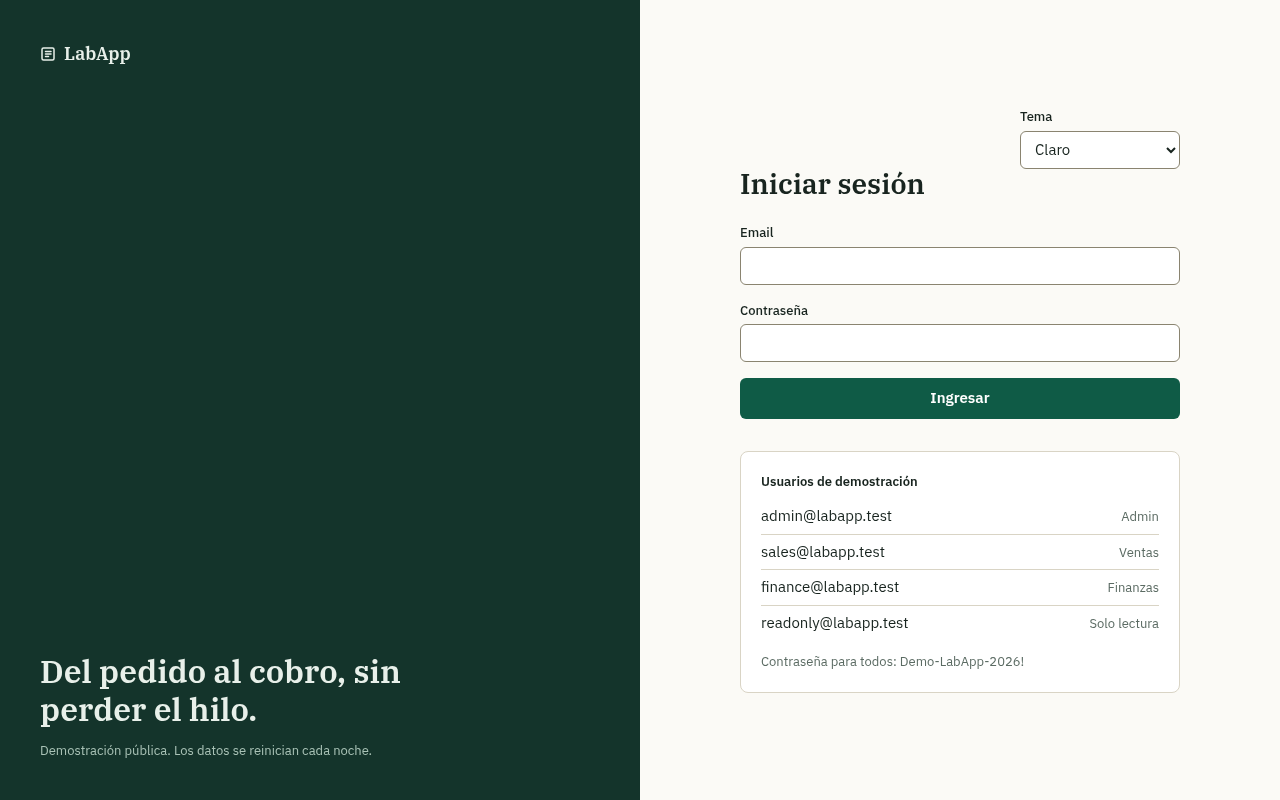
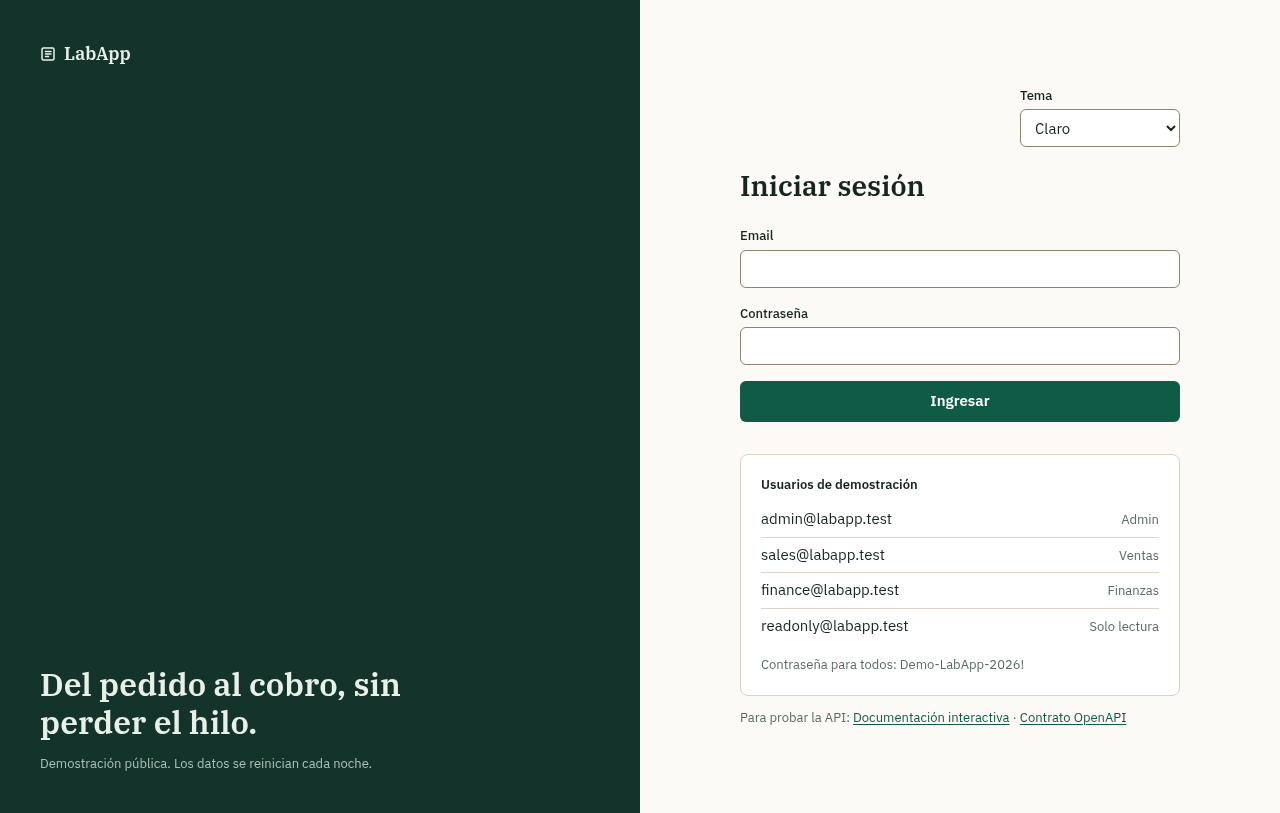
docs(readme): replace the screenshots with nine taken from the production build
Sorting, CSV export and import, the dark theme voices, the import error table and the phone width instead of the seven pre-sorting shots. The set is quantized to 256 colors and stays under 300 KB.

diff --git a/README.es.md b/README.es.md
@@ -8,18 +8,26 @@ Un ERP pequeño de pedido a cobro (clientes, pedidos, facturas, pagos) hecho par
 
 ## Capturas
 
-Tomadas de una compilación de producción con los datos de ejemplo, en las dos versiones del diseño "Libro mayor" y en ancho de teléfono.
+Tomadas de una compilación de producción (`pnpm build` + `next start`) sobre la API en memoria con los datos de ejemplo, en la versión clara y oscura del diseño "Libro mayor", en ancho de escritorio y en un teléfono.
 
 <p>
-  <img src="docs/screenshots/login-light.png" alt="Login con los usuarios de la demo" width="48%">
-  <img src="docs/screenshots/home-light.png" alt="Resumen de los datos" width="48%">
-  <img src="docs/screenshots/customers-light.png" alt="Lista de clientes" width="48%">
-  <img src="docs/screenshots/order-detail-light.png" alt="Un pedido confirmado con sus totales" width="48%">
-  <img src="docs/screenshots/invoice-detail-dark.png" alt="Una factura pagada, tema oscuro" width="48%">
-  <img src="docs/screenshots/products-dark.png" alt="Catálogo de productos, tema oscuro" width="48%">
+  <img src="docs/screenshots/login-light.png" alt="Login con los usuarios de la demo de los cuatro roles" width="32%">
+  <img src="docs/screenshots/home-summary-light.png" alt="Resumen de inicio con contadores en vivo de clientes, pedidos y facturas" width="32%">
+  <img src="docs/screenshots/products-list-light.png" alt="Catálogo de productos con los avisos de stock" width="32%">
+</p>
+<p>
+  <img src="docs/screenshots/customers-sorted-name-asc-light.png" alt="Lista de clientes ordenada por nombre, con la flecha de orden en el encabezado" width="32%">
+  <img src="docs/screenshots/order-detail-confirmed-light.png" alt="Un pedido confirmado con sus líneas y totales" width="32%">
+  <img src="docs/screenshots/invoice-detail-issued-dark.png" alt="Una factura emitida con su historial de pagos, tema oscuro" width="32%">
+</p>
+<p>
+  <img src="docs/screenshots/customers-list-dark.png" alt="Lista de clientes en el tema oscuro" width="32%">
+  <img src="docs/screenshots/customers-import-errors-light.png" alt="Pantalla de importación CSV mostrando los errores por fila de un archivo rechazado" width="32%">
 </p>
 
-<img src="docs/screenshots/orders-phone-light.png" alt="La lista de pedidos en un teléfono" width="260">
+<p>
+  <img src="docs/screenshots/orders-list-phone-light.png" alt="La lista de pedidos en un teléfono, con los filtros apilados" width="300">
+</p>
 
 ## Por qué
 

diff --git a/README.md b/README.md
@@ -8,18 +8,26 @@ A small order-to-cash ERP (customers, orders, invoices, payments) built to be an
 
 ## Screenshots
 
-Taken from a production build with the seed data, in the two voices of the "Libro mayor" design and at phone width.
+Taken from a production build (`pnpm build` + `next start`) over the in-memory API with the seed data, in the light and the dark voices of the "Libro mayor" design, at desktop width and on a phone.
 
 <p>
-  <img src="docs/screenshots/login-light.png" alt="Login with the demo users" width="48%">
-  <img src="docs/screenshots/home-light.png" alt="Summary of the data" width="48%">
-  <img src="docs/screenshots/customers-light.png" alt="Customers list" width="48%">
-  <img src="docs/screenshots/order-detail-light.png" alt="A confirmed order with its totals" width="48%">
-  <img src="docs/screenshots/invoice-detail-dark.png" alt="A paid invoice, dark theme" width="48%">
-  <img src="docs/screenshots/products-dark.png" alt="Products catalog, dark theme" width="48%">
+  <img src="docs/screenshots/login-light.png" alt="Login with the demo users of the four roles" width="32%">
+  <img src="docs/screenshots/home-summary-light.png" alt="Home summary with live counters of customers, orders and invoices" width="32%">
+  <img src="docs/screenshots/products-list-light.png" alt="Products catalog with stock badges" width="32%">
+</p>
+<p>
+  <img src="docs/screenshots/customers-sorted-name-asc-light.png" alt="Customers list sorted by name, with the sort arrow in the column header" width="32%">
+  <img src="docs/screenshots/order-detail-confirmed-light.png" alt="A confirmed order with its lines and totals" width="32%">
+  <img src="docs/screenshots/invoice-detail-issued-dark.png" alt="An issued invoice with its payment history, dark theme" width="32%">
+</p>
+<p>
+  <img src="docs/screenshots/customers-list-dark.png" alt="Customers list in the dark theme" width="32%">
+  <img src="docs/screenshots/customers-import-errors-light.png" alt="CSV import screen showing the per-row errors of a rejected file" width="32%">
 </p>
 
-<img src="docs/screenshots/orders-phone-light.png" alt="The orders list on a phone" width="260">
+<p>
+  <img src="docs/screenshots/orders-list-phone-light.png" alt="The orders list on a phone, with the filters stacked" width="300">
+</p>
 
 ## Why
 
